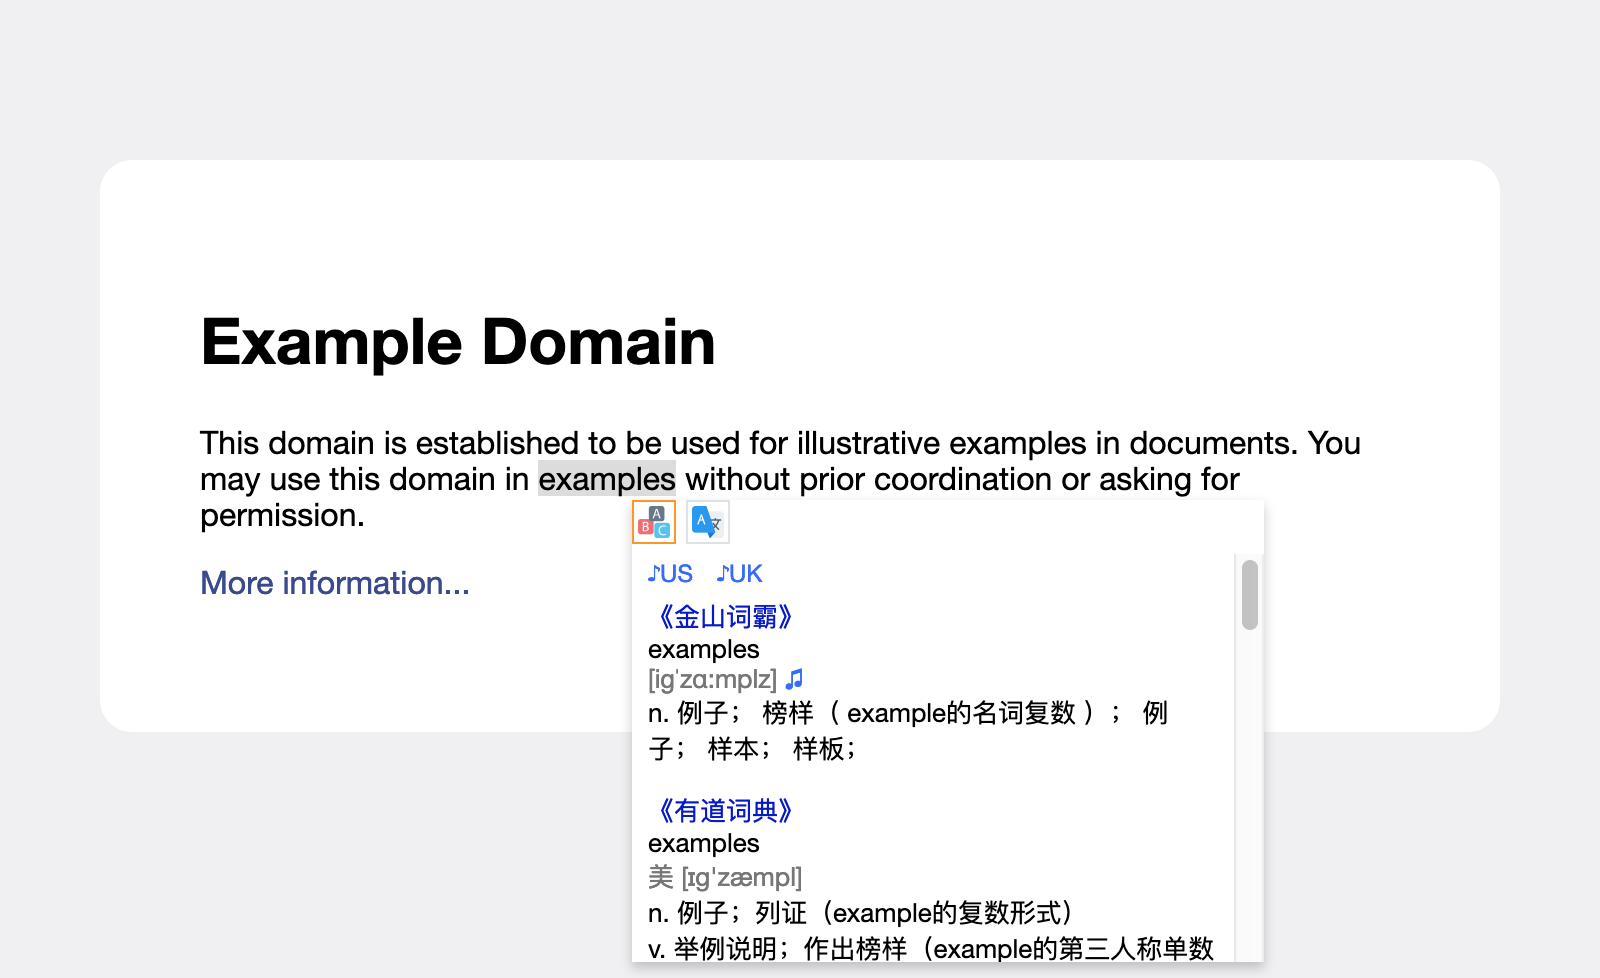
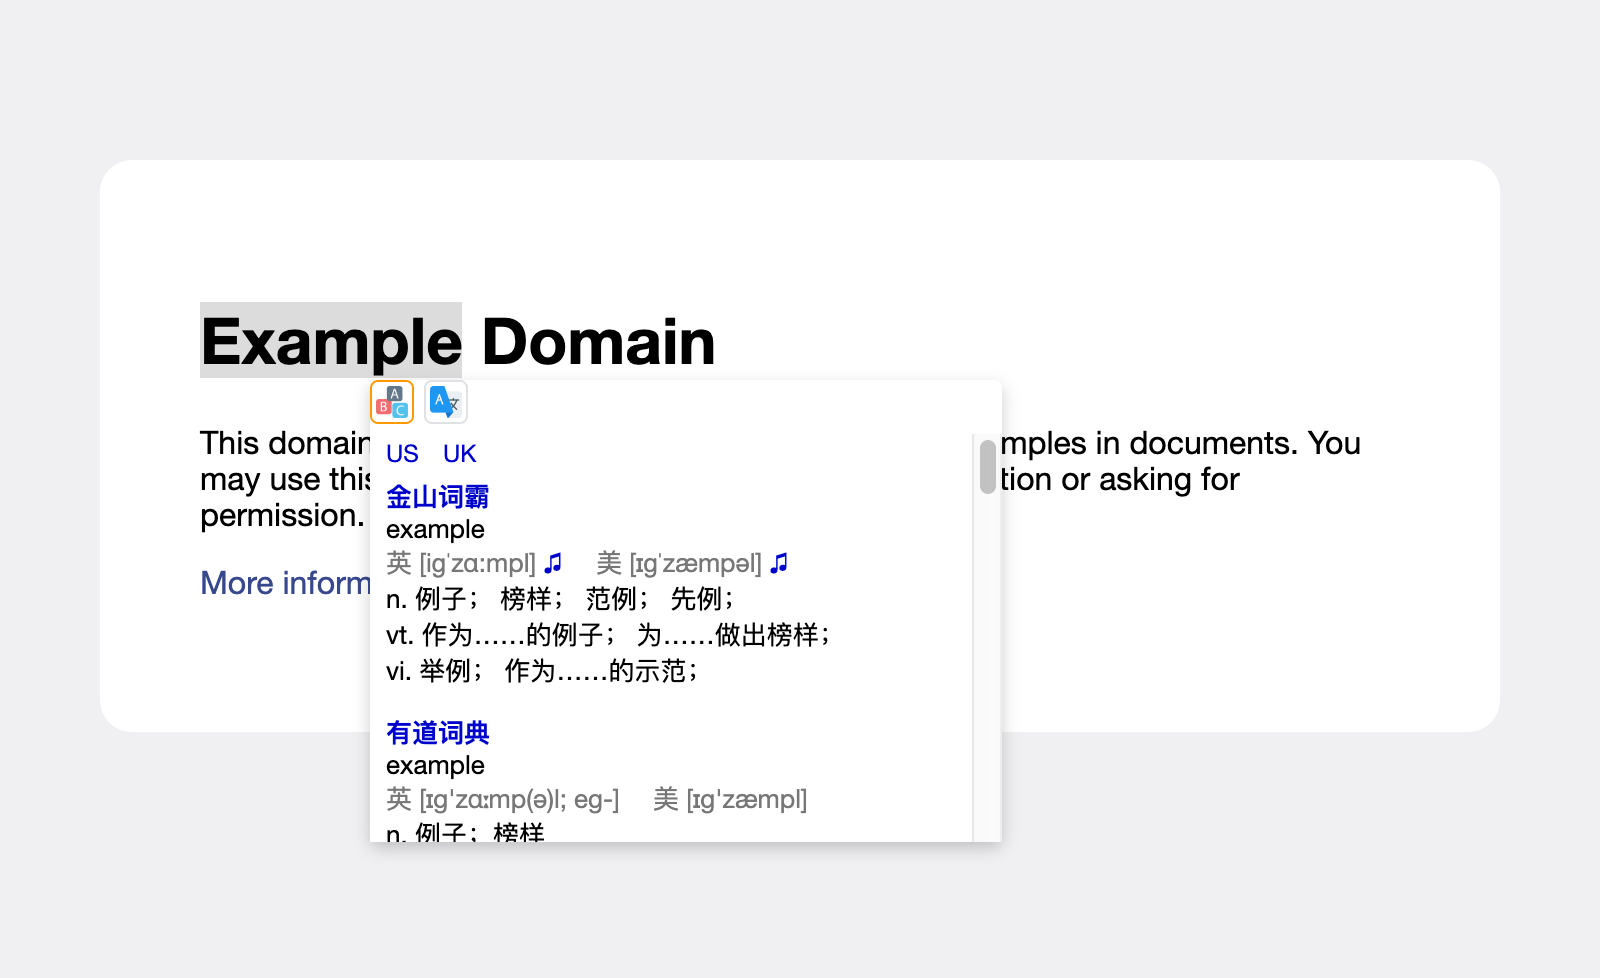
样式风格轻微修改

Changed region(s): [[0.125, 0.3067, 0.7812, 1.0], [0.75, 0.5828, 0.8125, 0.6442], [0.7188, 0.7055, 0.75, 0.7362]]

diff --git a/translate/translate-dictionary.js b/translate/translate-dictionary.js
@@ -1,7 +1,7 @@
 // ==UserScript==
 // @name         划词翻译：多词典查询
 // @namespace    http://tampermonkey.net/
-// @version      5.3
+// @version      5.4
 // @description  划词翻译调用“有道词典（有道翻译）、金山词霸、Bing 词典（必应词典）、剑桥高阶、沪江小D、谷歌翻译”
 // @author       https://github.com/barrer
 // @match        http://*/*
@@ -29,32 +29,33 @@
     :host{all:unset!important}
     :host{all:initial!important}
     *{word-wrap:break-word!important;word-break:break-word!important}
-    a{color:#36f;text-decoration:none;cursor:pointer}
-    a:hover{text-decoration:underline}
-    img{cursor:pointer;display:inline-block;width:16px;height:16px;border:1px solid #dfe1e5;background-color:rgba(255,255,255,1);padding:2px;margin:0;margin-right:5px;box-sizing:content-box;vertical-align:middle}
+    a{color:#00c;text-decoration:none;cursor:pointer}
+    a:hover{text-decoration:none}
+    a:active{text-decoration:underline}
+    img{cursor:pointer;display:inline-block;width:16px;height:16px;border:1px solid #dfe1e5;border-radius:4px;background-color:rgba(255,255,255,1);padding:2px;margin:0;margin-right:5px;box-sizing:content-box;vertical-align:middle}
     img:last-of-type{margin-right:auto}
-    img:hover{border:1px solid #c6c6c6}
+    img:hover{border:1px solid #f90}
     img[activate]{border:1px solid #f90}
     img[activate]:hover{border:1px solid #f90}
     table{font-size:inherit;color:inherit}
-    tr-icon{display:none;position:absolute;padding:0;margin:0;cursor:move;box-sizing:content-box;font-size:13px;text-align:left;border:0;color:black;z-index:2147483647;background:transparent}
+    tr-icon{display:none;position:absolute;padding:0;margin:0;cursor:move;box-sizing:content-box;font-size:13px;text-align:left;border:0;border-radius:4px;color:black;z-index:2147483647;background:transparent}
     tr-icon[activate]{background:#fff;-webkit-box-shadow:0 3px 8px 0 rgba(0,0,0,0.2),0 0 0 0 rgba(0,0,0,0.08);box-shadow:0 3px 8px 0 rgba(0,0,0,0.2),0 0 0 0 rgba(0,0,0,0.08)}
     tr-audio{display:block;margin-bottom:5px}
     tr-audio a{margin-right:1em;font-size:80%}
     tr-audio a:last-of-type{margin-right:auto}
     tr-content{display:block;max-width:300px;max-height:200px;width:300px;height:200px;overflow-x:auto;overflow-y:scroll;background:white;padding:2px 8px;margin-top:5px;box-sizing:content-box;font-family:"Helvetica Neue","Helvetica","Arial","sans-serif";font-size:13px;font-weight:normal;line-height:normal;-webkit-font-smoothing:auto;font-smoothing:auto;text-rendering:auto}
     tr-engine~tr-engine{margin-top:1em}
-    tr-engine .title{color:#00c;display:inline-block}
+    tr-engine .title{color:#00c;display:inline-block;font-weight:bold}
     tr-engine .title:hover{text-decoration:none}
     /*各引擎样式*/
     .google .sentences,.google .trans,.google .orig,.google .dict,.google .pos,.none{display:block}
     .google .backend,.google .entry,.google .base_form,.google .pos_enum,.google .src,.google .confidence,.google .ld_result,.none{display:none}
-    .google .orig{font-style:italic;color:#777}
+    .google .orig{color:#777}
     .google .pos{margin-top:1em}
     .google .pos:before{content:"<"}
     .google .pos:after{content:">"}
-    .google .terms:before{content:"【"}
-    .google .terms:after{content:"】"}
+    .google .terms:before{content:"〔"}
+    .google .terms:after{content:"〕"}
     .google .terms{margin-right:.2em}
     .youdao .pron{margin-right:1em}
     .youdao .phone{color:#777;margin-right:1em}
@@ -157,14 +158,14 @@
         // 标题
         names: (function () {
             var obj = {};
-            obj[ids.ICIBA] = '《金山词霸》';
+            obj[ids.ICIBA] = '金山词霸';
             obj[ids.ICIBA_LOWER_CASE] = '';
-            obj[ids.YOUDAO] = '《有道词典》';
+            obj[ids.YOUDAO] = '有道词典';
             obj[ids.YOUDAO_LOWER_CASE] = '';
-            obj[ids.BING] = '《Bing 词典》';
-            obj[ids.HJENGLISH] = '《沪江小D》';
-            obj[ids.GOOGLE] = '《谷歌翻译》';
-            obj[ids.CAMBRIDGE] = '《剑桥高阶》';
+            obj[ids.BING] = 'Bing 词典';
+            obj[ids.HJENGLISH] = '沪江小D';
+            obj[ids.GOOGLE] = '谷歌翻译';
+            obj[ids.CAMBRIDGE] = '剑桥高阶';
             return obj;
         })(),
         // 跳转到网站（“%q%”占位符或者 function text -> return URL）
@@ -678,11 +679,11 @@
         // 发音
         var audio = document.createElement('tr-audio');
         audio.appendChild(getPlayButton({
-            name: '♪US',
+            name: 'US',
             url: 'https://dict.youdao.com/dictvoice?audio=' + selected + '&type=2'
         }));
         audio.appendChild(getPlayButton({
-            name: '♪UK',
+            name: 'UK',
             url: 'https://dict.youdao.com/dictvoice?audio=' + selected + '&type=1'
         }));
         if (engineId != 'icon-google') { // 谷歌翻译不显示发音图标

diff --git a/translate/translate.js b/translate/translate.js
@@ -1,7 +1,7 @@
 // ==UserScript==
 // @name         Translate
 // @namespace    http://tampermonkey.net/
-// @version      5.9
+// @version      6.0
 // @description  划词翻译调用“金山词霸、有道词典（有道翻译）、Google Translate（谷歌翻译）、沪江小D、搜狗翻译、必应词典（必应翻译）、Microsoft Translator（必应在线翻译）、海词词典、百度翻译、Oxford Learner's Dictionaries、Oxford Dictionaries、Merriam-Webster、PDF 划词翻译、Google Search、Bing Search（必应搜索）、百度搜索、Wikipedia Search（维基百科搜索）”网页翻译
 // @author       https://github.com/barrer
 // @match        http://*/*
@@ -23,9 +23,9 @@
     :host{all:unset!important}
     :host{all:initial!important}
     *{word-wrap:break-word!important}
-    img{cursor:pointer;display:inline-block;width:16px;height:16px;border:1px solid #dfe1e5;background-color:rgba(255,255,255,1);padding:2px;margin:0;margin-right:5px;box-sizing:content-box;vertical-align:middle}
+    img{cursor:pointer;display:inline-block;width:16px;height:16px;border:1px solid #dfe1e5;border-radius:4px;background-color:rgba(255,255,255,1);padding:2px;margin:0;margin-right:5px;box-sizing:content-box;vertical-align:middle}
     img:last-of-type{margin-right:auto}
-    img:hover{border:1px solid #c6c6c6}
+    img:hover{border:1px solid #f90}
     img[is-more]{display:none}
     tr-icon{display:none;position:absolute;padding:0;margin:0;cursor:move;background:transparent;box-sizing:content-box;font-size:13px;text-align:left;border:0;color:black;z-index:2147473647}
     `;

diff --git a/README.md b/README.md
@@ -24,10 +24,6 @@
 * 支持面板拖动
 * 支持面板自动调整位置
 
-### PDF 划词翻译（PDF.js viewer）
-
-![translate-pdf.png](translate/translate-pdf.png)
-
 同时安装：
 
 ① 划词翻译：多词典查询  
